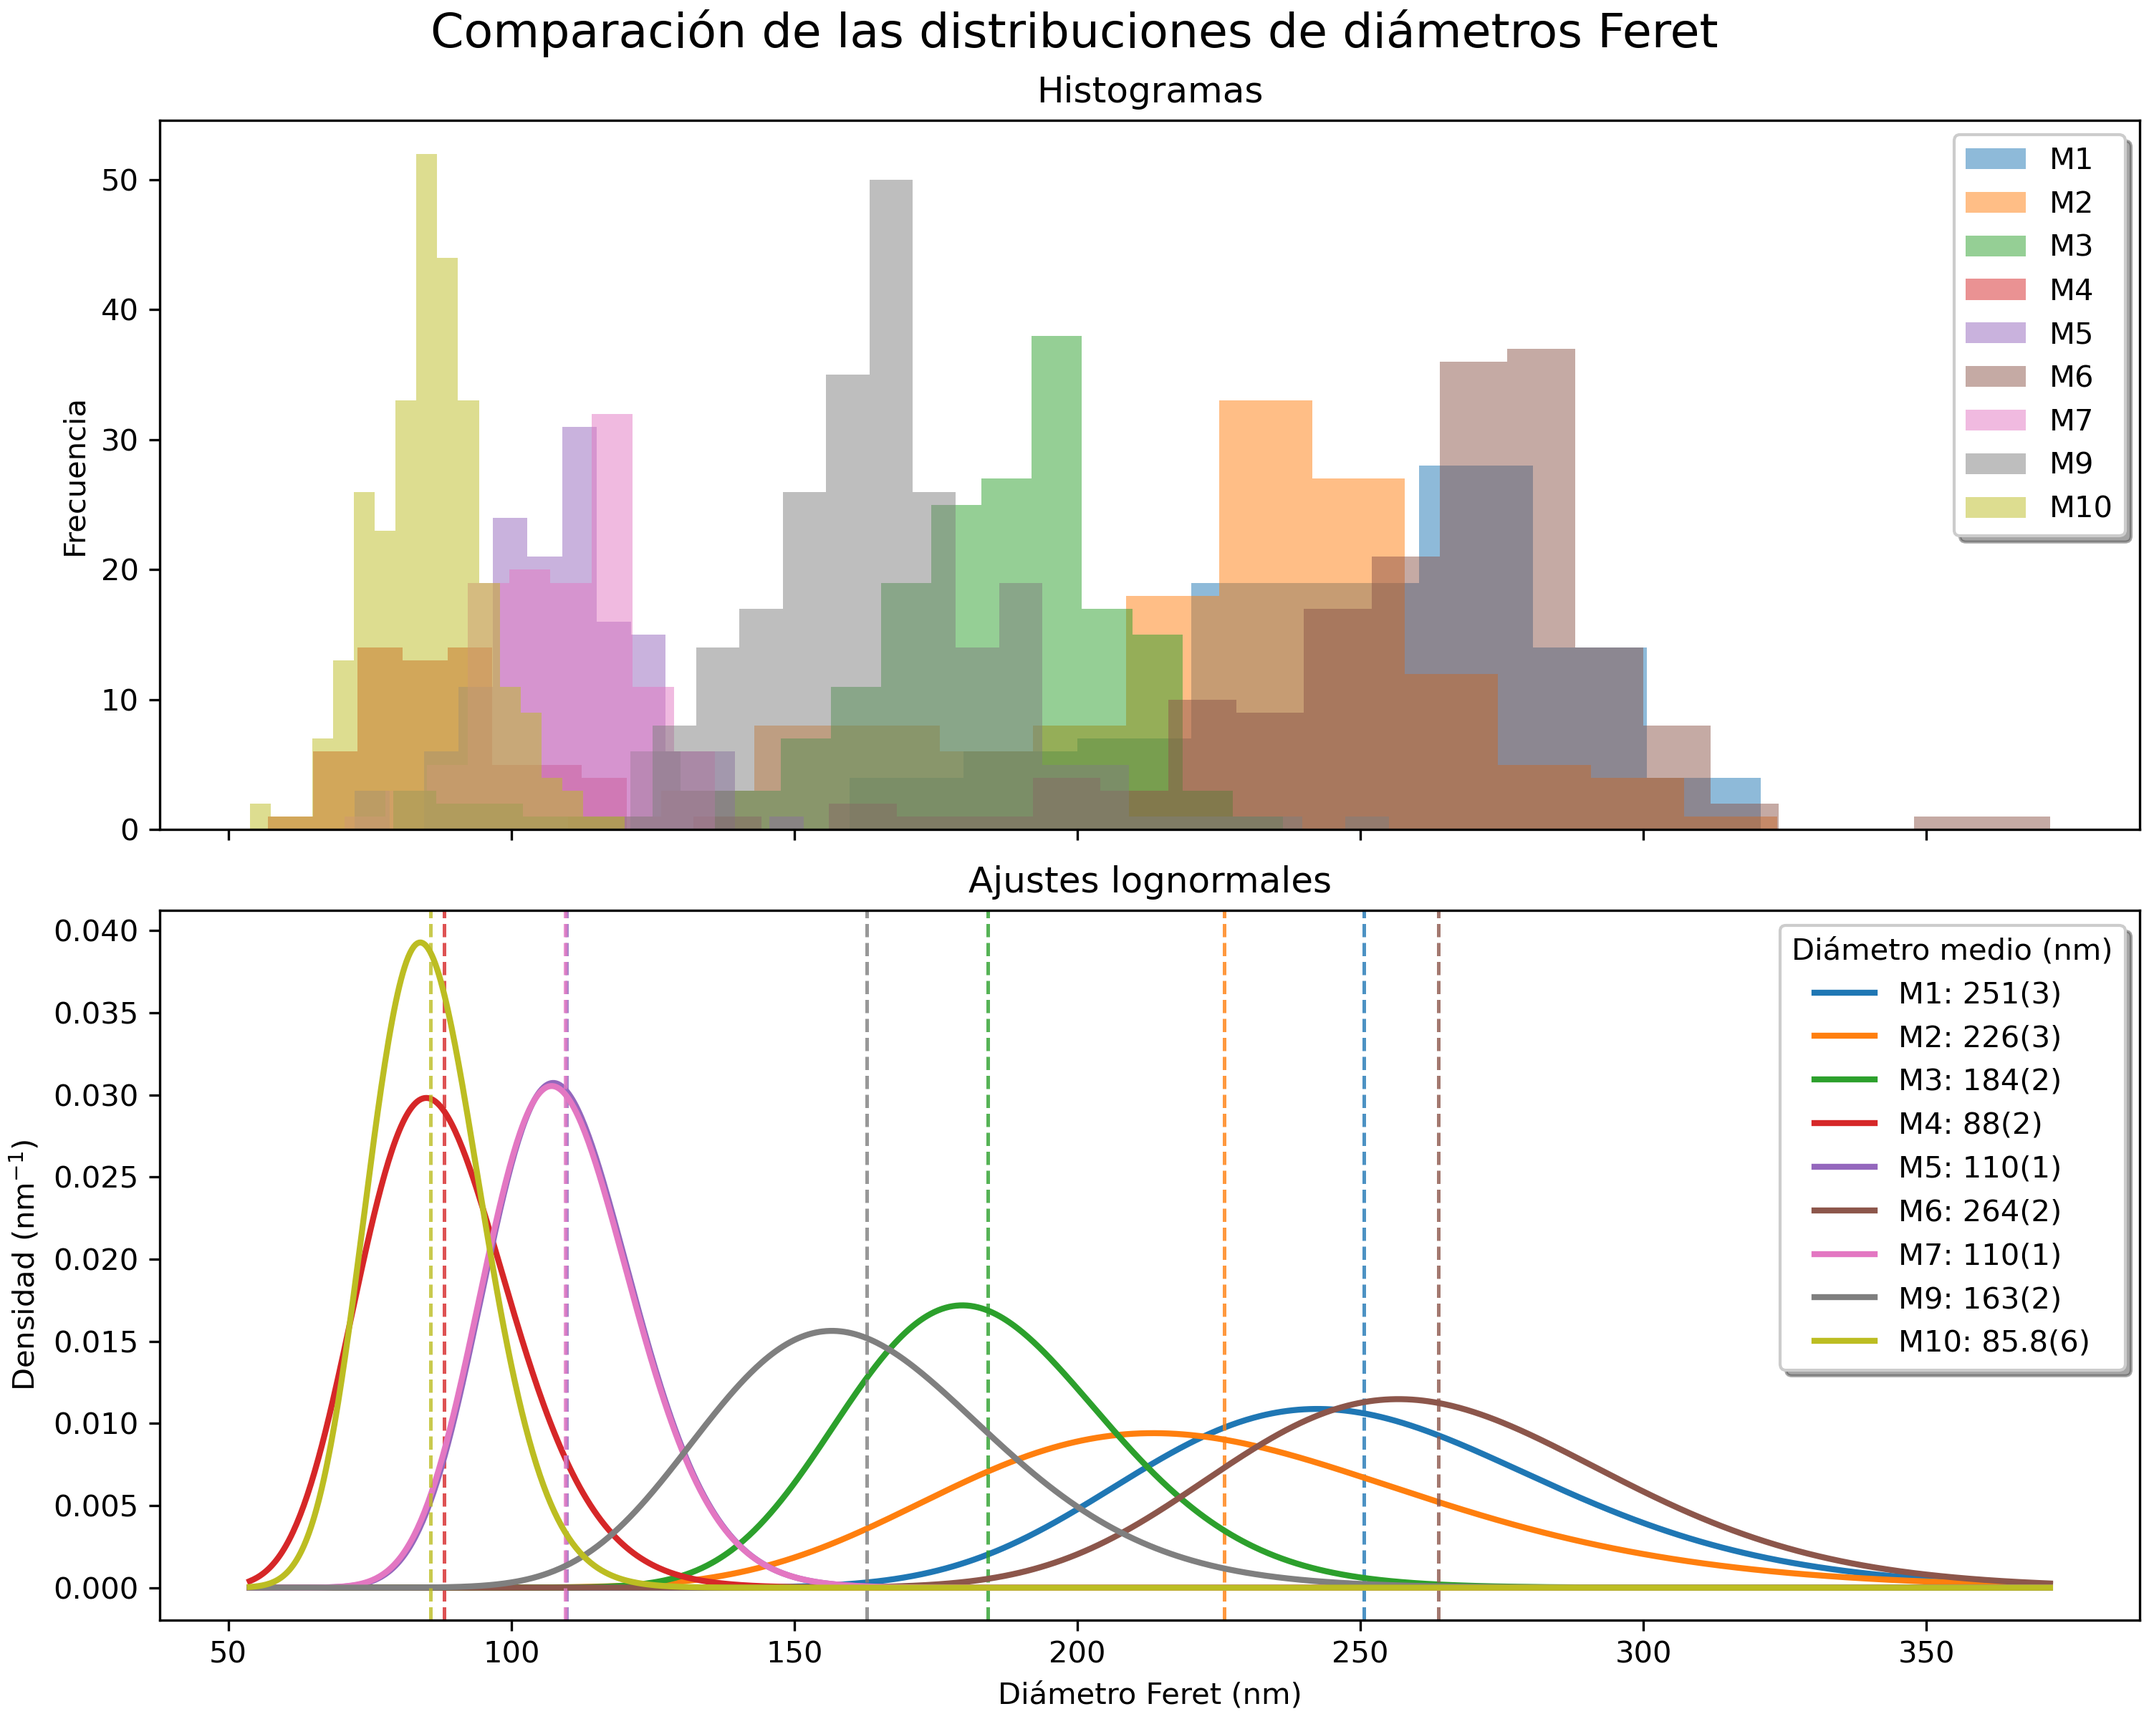
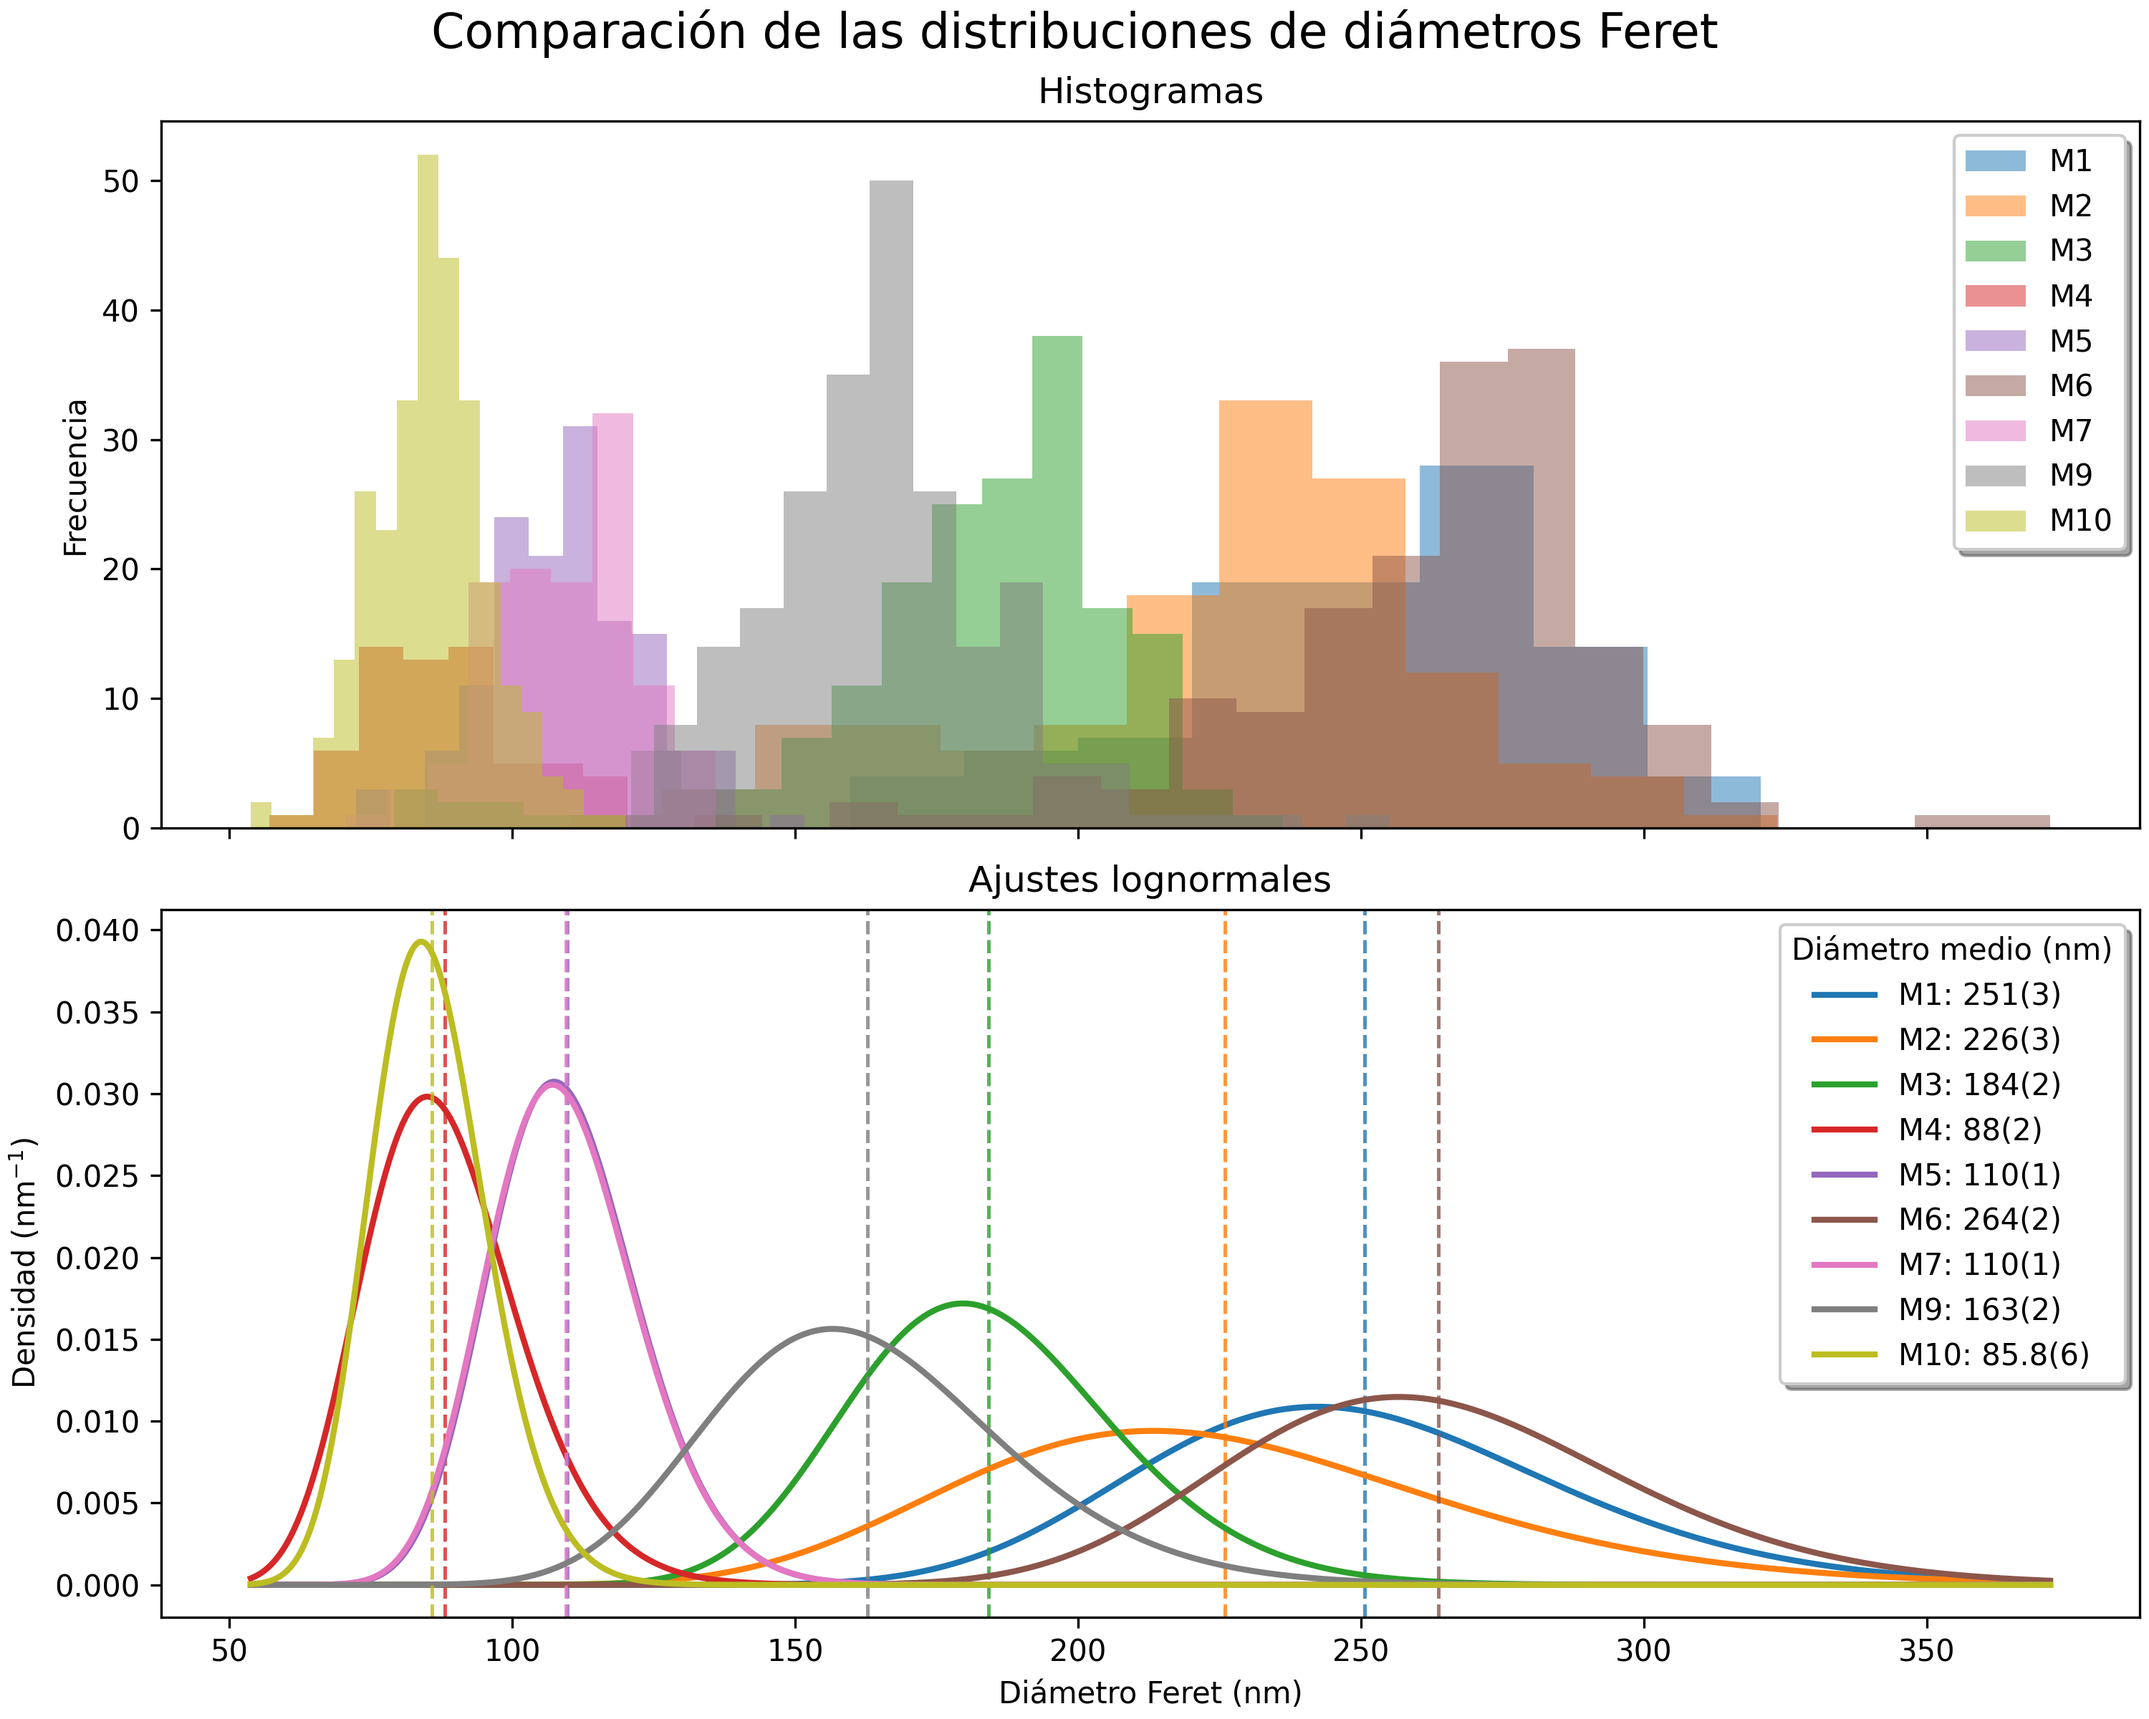
update

diff --git a/diametros.py b/diametros.py
@@ -226,13 +226,11 @@ for i in [6, 7, 8]:
 
 plt.suptitle(
     'Distribuciones de diámetros Feret y ajuste lognormal',
-    fontsize=16
-)
+    fontsize=16)
 
 plt.savefig(
     'Distribuciones_Feret_lognormal_M1_M2_M3_M4_M5_M6_M7_M9_M10.png',
-    dpi=300
-)
+    dpi=300)
 
 plt.show()
 #%% Guardar resultados del ajuste
@@ -310,3 +308,309 @@ plt.suptitle('Comparación de las distribuciones de diámetros Feret',
 plt.savefig('Comparacion_Feret_lognormal_M1_M2_M3_M4_M5_M6_M7_M9_M10.png', dpi=300)
 plt.show()
 # %%
+#%% Diámetro medio por muestra
+
+fig, ax = plt.subplots(figsize=(6,3), constrained_layout=True)
+
+muestras = list(ajustes.keys())
+
+media = [ajustes[m]['media'].n for m in muestras]
+dmedia = [ajustes[m]['media'].s for m in muestras]
+
+colores = [f'C{i}' for i in range(len(muestras))]
+
+for i, (m, y, dy, c) in enumerate(zip(muestras, media, dmedia, colores)):
+    ax.errorbar(
+        i, y,
+        yerr=dy,
+        fmt='.',
+        ms=8,
+        capsize=5,
+        color=c,
+        ecolor=c,
+        elinewidth=2,
+        label=f'{y:.1f}')
+
+ax.set_xticks(range(len(muestras)))
+ax.set_xticklabels(muestras)
+# ax.legend(frameon=True)
+ax.set_ylabel('Diámetro medio (nm)')
+ax.set_xlabel('Muestra')
+# ax.set_title('Diámetro medio obtenido del ajuste lognormal')
+
+ax.grid(axis='y', alpha=0.3)
+
+plt.savefig('Diametro_medio_por_muestra.png', dpi=300)
+plt.show()
+# %%
+#%% Comparación del diámetro medio y la dispersión
+
+fig, axs = plt.subplots(
+    2, 1,
+    figsize=(7, 5),
+    sharex=True,
+    constrained_layout=True
+)
+
+colores = ['C0','C1','C2','C3','C4','C5','C6','C7','C8']
+
+muestras = list(ajustes.keys())
+
+media = [ajustes[m]['media'].n for m in muestras]
+dmedia = [ajustes[m]['media'].s for m in muestras]
+
+std = [ajustes[m]['std'].n for m in muestras]
+dstd = [ajustes[m]['std'].s for m in muestras]
+
+# ------------------------
+# Diámetro medio
+# ------------------------
+
+for i, (m, c) in enumerate(zip(muestras, colores)):
+    axs[0].errorbar(
+        i,
+        media[i],
+        yerr=dmedia[i],
+        fmt='.',
+        ms=8,
+        color=c,
+        capsize=4
+    )
+
+axs[0].set_ylabel(r'$\langle d\rangle$ (nm)')
+axs[0].set_title('Diámetro medio ⟨d⟩ ',loc='left')
+axs[0].grid(alpha=0.3)
+
+# ------------------------
+# Desviación estándar
+# ------------------------
+
+for i, (m, c) in enumerate(zip(muestras, colores)):
+    axs[1].errorbar(
+        i,
+        std[i],
+        yerr=dstd[i],
+        fmt='.',
+        ms=8,
+        color=c,
+        capsize=4
+    )
+
+axs[1].set_ylabel(r'$\sigma$ (nm)')
+axs[1].set_title('Dispersión de tamaños σ   ',loc='left')
+axs[1].grid(alpha=0.3)
+
+axs[1].set_xticks(range(len(muestras)))
+axs[1].set_xticklabels(muestras)
+
+#plt.suptitle('Comparación de las distribuciones lognormales', fontsize=16)
+
+plt.savefig('Diametro_medio_y_dispersion.png',dpi=300)
+
+plt.show()
+# %% Para plotear en funcion del diametro
+
+# Diámetros medios (Feret) con incerteza del ajuste lognormal [1, 2]
+# Formato: ufloat(media, error_ajuste)
+diam_medio = np.array([
+    ufloat(250.6, 3.6),   # M1
+    ufloat(225.9, 3.6),   # M2
+    ufloat(184.2, 1.8),   # M3
+    ufloat(88.1, 1.8),    # M4
+    ufloat(109.8, 1.1),   # M5
+    ufloat(162.8, 1.5),   # M9
+    ufloat(85.8, 0.6)     # M10
+])
+# Diámetros medios (Feret) con incerteza del ajuste lognormal [1, 2]
+# Formato: ufloat(media, error_ajuste)
+diam_medio = np.array([
+    ufloat(250.6, 3.6),   # M1
+    ufloat(225.9, 3.6),   # M2
+    ufloat(184.2, 1.8),   # M3
+    ufloat(88.1, 1.8),    # M4
+    ufloat(109.8, 1.1),   # M5
+    ufloat(162.8, 1.5),   # M9
+    ufloat(85.8, 0.6)     # M10
+])
+
+# ESAR (W/g) a 300 kHz y ~58 kA/m [3-9]
+# Nota: La incerteza para M1-M5 y M9-M10 es la desviación estándar de las 3 repeticiones.
+esar = np.array([
+    ufloat(210, 13),      # M1
+    ufloat(720, 31),      # M2
+    ufloat(1235, 11),     # M3
+    ufloat(1179, 47),     # M4
+    ufloat(1327, 14),     # M5
+    ufloat(613.5, 29.0),  # M9 
+    ufloat(1648, 16)      # M10
+])
+
+# Tiempo de relajación tau (ns) [3-9]
+tau = np.array([
+    ufloat(37, 8),        # M1
+    ufloat(75, 3),        # M2
+    ufloat(56.3, 0.6),    # M3
+    ufloat(137, 15),      # M4
+    ufloat(116, 6),       # M5
+    ufloat(47.35, 0.07),    # M9
+    ufloat(115.7, 1.2)    # M10
+])
+
+# Campo coercitivo dinámico Hc (kA/m) [3-9]
+hc = np.array([
+    ufloat(7.5, 0.6),     # M1
+    ufloat(12.01, 0.14),  # M2
+    ufloat(9.79, 0.11),   # M3
+    ufloat(18.7, 0.9),    # M4
+    ufloat(16.9, 0.3),    # M5
+    ufloat(8.63, 0.01),   # M9
+    ufloat(16.33, 0.16)   # M10
+])
+# %%
+#%% ESAR vs diámetro
+
+from uncertainties import unumpy as unp
+
+muestras = ['M1', 'M2', 'M3', 'M4', 'M5', 'M9', 'M10']
+colores = ['C0','C1','C2','C3','C4','C5','C6']
+
+# diámetro medio obtenido del ajuste lognormal
+diam = np.array([ajustes[m]['media'].n for m in muestras])
+ddiam = np.array([ajustes[m]['media'].s for m in muestras])
+
+fig, ax = plt.subplots(figsize=(6,4), constrained_layout=True)
+
+for i, (m, c) in enumerate(zip(muestras, colores)):
+    ax.errorbar(
+        diam[i],
+        unp.nominal_values(esar)[i],
+        xerr=ddiam[i],
+        yerr=unp.std_devs(esar)[i],
+        fmt='.',
+        color=c,
+        ms=8,
+        capsize=4
+    )
+
+    ax.annotate(
+        m,
+        (diam[i], unp.nominal_values(esar)[i]),
+        xytext=(5,5),
+        textcoords='offset points',
+        color=c
+    )
+
+ax.set_xlabel('Diámetro medio (nm)')
+ax.set_ylabel('ESAR (W/g)')
+ax.set_title('ESAR vs diámetro')
+ax.grid(alpha=0.3)
+
+plt.show()
+# %%
+#%% ESAR vs diámetro
+
+from uncertainties import unumpy as unp
+
+muestras = ['M1', 'M2', 'M3', 'M4', 'M5', 'M9', 'M10']
+colores = ['C0','C1','C2','C3','C4','C5','C6']
+
+# diámetro medio obtenido del ajuste lognormal
+diam = np.array([ajustes[m]['media'].n for m in muestras])
+ddiam = np.array([ajustes[m]['media'].s for m in muestras])
+
+fig1, ax = plt.subplots(figsize=(6,3), constrained_layout=True)
+
+for i, (m, c) in enumerate(zip(muestras, colores)):
+    ax.errorbar(
+        diam[i],
+        unp.nominal_values(esar)[i],
+        xerr=ddiam[i],
+        yerr=unp.std_devs(esar)[i],
+        fmt='.',
+        color=c,
+        ms=8,
+        capsize=4
+    )
+
+    ax.annotate(
+        m,
+        (diam[i], unp.nominal_values(esar)[i]),
+        xytext=(5,5),
+        textcoords='offset points',
+        color=c
+    )
+
+ax.set_xlabel('Diámetro medio (nm)')
+ax.set_ylabel('ESAR (W/g)')
+ax.set_title('ESAR vs diámetro')
+ax.grid(alpha=0.3)
+
+plt.show()
+# %%
+fig2, ax = plt.subplots(figsize=(6,3), constrained_layout=True)
+
+for i, (m, c) in enumerate(zip(muestras, colores)):
+    ax.errorbar(
+        diam[i],
+        unp.nominal_values(tau)[i],
+        xerr=ddiam[i],
+        yerr=unp.std_devs(tau)[i],
+        fmt='.',
+        color=c,
+        ms=8,
+        capsize=4
+    )
+
+    ax.annotate(
+        m,
+        (diam[i], unp.nominal_values(tau)[i]),
+        xytext=(5,5),
+        textcoords='offset points',
+        color=c
+    )
+
+ax.set_xlabel('Diámetro medio (nm)')
+ax.set_ylabel('tau (ns)')
+ax.set_title('tau vs diámetro')
+ax.grid(alpha=0.3)
+
+plt.show()
+# %%
+
+
+fig3, ax = plt.subplots(figsize=(6,3), constrained_layout=True)
+
+for i, (m, c) in enumerate(zip(muestras, colores)):
+    ax.errorbar(
+        diam[i],
+        unp.nominal_values(hc)[i],
+        xerr=ddiam[i],
+        yerr=unp.std_devs(hc)[i],
+        fmt='.',
+        color=c,
+        ms=8,
+        capsize=4
+    )
+
+    ax.annotate(
+        m,
+        (diam[i], unp.nominal_values(hc)[i]),
+        xytext=(5,5),
+        textcoords='offset points',
+        color=c
+    )
+
+ax.set_xlabel('Diámetro medio (nm)')
+ax.set_ylabel('Hc (kA/m)')
+ax.set_title('Hc vs diámetro')
+ax.grid(alpha=0.3)
+
+plt.show()
+# %%
+fig1.savefig('ESAR_vs_diam.png',dpi=300)
+fig2.savefig('tau_vs_diam.png',dpi=300)
+fig3.savefig('Hc_vs_diam.png',dpi=300)
+
+# %%
+
+
